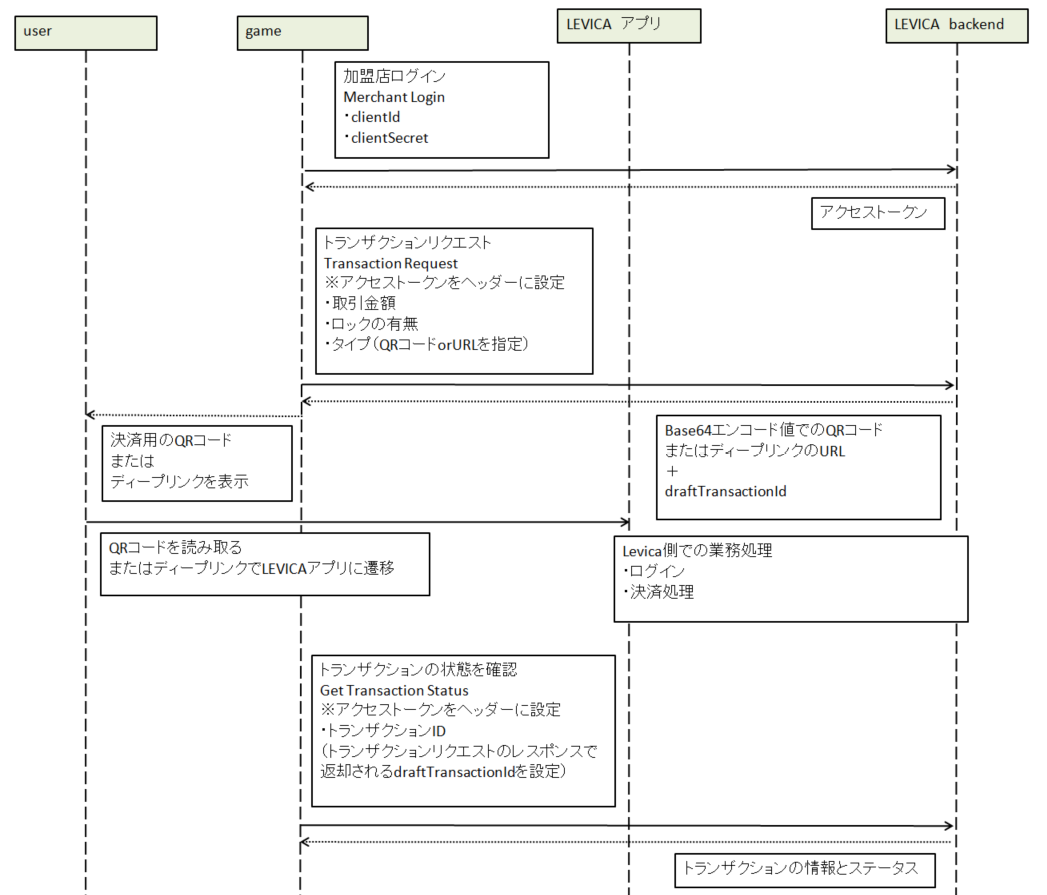
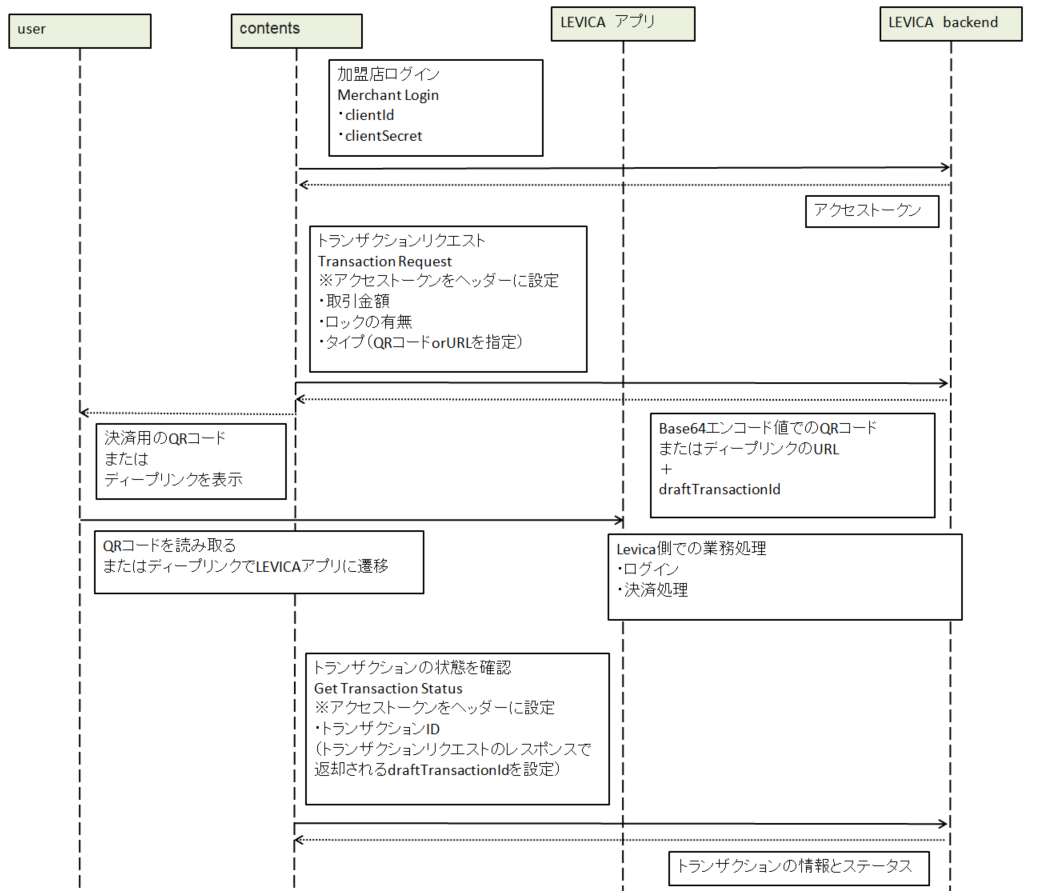
[update]
[update]用語の修正

Changed region(s): [[0.0, 0.0, 0.9818, 1.0]]

diff --git a/source/game-development/wallet-connection.rst b/source/game-development/wallet-connection.rst
@@ -3,18 +3,18 @@
 ###########################
 
 
-ANICANAウォレットサーバを通じて、ゲームシステムからユーザのアドレスの取得およびその保有者であることの検証を行うことができる。
+ANICANAウォレットサーバを通じて、コンテンツからユーザのアドレスの取得およびその保有者であることの検証を行うことができる。
 以下に一例の手順を示す。
 
 
 .. image:: ../img/wallet_connection.png
 
 
-Player: ゲームのユーザ
+Player: コンテンツのユーザ
 
-Frontend: ゲームのフロントエンド
+Frontend: コンテンツのフロントエンド
 
-Backend: ゲームのバックエンド
+Backend: コンテンツのバックエンド
 
 Wallet: ANICANAウォレットサーバ
 
@@ -45,7 +45,7 @@ API仕様
     パラメータ, 説明
     id, anikana_login_script (変更しないで下さい)
     src, {endpoint}//login.js
-    data-call-id, ゲームメーカー毎に一意の数値。ゲーム側で、どの遷移からのユーザーが戻ってきたかなどを判別するための機能となっている。その情報が特に必要なければ9999999で問題ない。
+    data-call-id, パブリッシャー毎に一意の数値。コンテンツ側で、どの遷移からのユーザーが戻ってきたかなどを判別するための機能となっている。その情報が特に必要なければ9999999で問題ない。
     data-sign-text, 署名対象のテキスト(ワンタイムトークン)
     data-callback, コールバックURL. ログイン完了後、callId、 sign、 address (ユーザーのwallet address) がGETパラメータに追加されてリダイレクトされる。
     data-logout, true/false、または無し。trueの場合、強制的に再ログインをさせる。falseの場合、セッション情報があれば自動ログイン、なければ再ログインをさせる。無しの場合、falseと同様。
@@ -60,7 +60,7 @@ API仕様
 
 ウォレット側では、単に与えられた署名対象テキストを、ユーザの秘密鍵で署名して返す。
 このときの署名方式は楕円曲線暗号方式(ECDSA)である。
-この署名データの取り扱いは、利用側(ゲーム側)システムに委ねられる。
+この署名データの取り扱いは、利用側(コンテンツ側)システムに委ねられる。
 
 ログイン後のcallbackに送られてくるaddressの持ち主が本当に当該ユーザであるかを検証するには、この署名データの検証を行う。
 

diff --git a/source/game-development/user-registration.rst b/source/game-development/user-registration.rst
@@ -3,10 +3,10 @@
 ###########################
 
 
-ゲーム側システムでブロックチェーンとの接続を直接行う必要はないが、
+コンテンツ側システムでブロックチェーンとの接続を直接行う必要はないが、
 ユーザが使うウォレット情報を取得するニーズはあると考えられる。
 
-そこで、ANICANAウォレット接続によってアドレスの所有者認証を行い、ゲーム側で保持する
+そこで、ANICANAウォレット接続によってアドレスの所有者認証を行い、コンテンツ側で保持する
 ユーザ情報と、ウォレットアドレス情報を紐付ける方法を提供する。
 
 ---------------------------------
@@ -17,9 +17,9 @@
 
 以下のようなユーザ登録フローが想定されている。
 
-1. ユーザがゲームにアカウント登録を行う
+1. ユーザがコンテンツにアカウント登録を行う
 2. アカウント登録の際、ウォレット接続を行い、ユーザのウォレットアドレスを取得する。ユーザがウォレットを未作成の場合でも、初回接続時に自動生成される。
-3. ゲームアカウントとユーザアドレスを紐付けてゲーム側で情報を保持する 
-4. ウォレット接続によりアドレス保有者の認証ができるため、パスワード認証などの代わりにこのアドレス認証によってゲームにログインさせることも可能。こうすることで他のゲームと共通のSSOが可能になる。
+3. コンテンツアカウントとユーザアドレスを紐付けてコンテンツ側で情報を保持する 
+4. ウォレット接続によりアドレス保有者の認証ができるため、パスワード認証などの代わりにこのアドレス認証によってコンテンツにログインさせることも可能。こうすることで他のコンテンツと共通のSSOが可能になる。
 
 

diff --git a/source/game-development/generate-arcana.rst b/source/game-development/generate-arcana.rst
@@ -4,7 +4,7 @@ ARCANA生成API
 
 
 
-次のスクリプトタグをゲームシステム側に埋め込むことで、ARCANA生成画面を呼び出すことができます。
+次のスクリプトタグをコンテンツ側に埋め込むことで、ARCANA生成画面を呼び出すことができます。
 
 
 API仕様
@@ -43,7 +43,7 @@ ARCANA生成ページ呼び出しスクリプト
     data-seed, seed
     data-signature, game maker側による署名
     callback-url (URL), "callbackのURL。requestIdとtxHashがGETパラメータとして追加されてredirectされる。http://test.comを指定した場合、http://test.com?requestId=1&txHash=xxxxxのようになる。また、callbackは指定しなくても良い。その場合はportal上のウォレットページに遷移するボタンが表示される。"
-    data-requestid (数値) uint, ゲームメーカー毎の任意の数値。 0 ~ 18446744073709551615
+    data-requestid (数値) uint, パブリッシャー毎の任意の数値。 0 ~ 18446744073709551615
     data-toaddr, 配布先wallet address
     data-logout, true/false、または無し。trueの場合、強制的に再ログインをさせる。falseの場合、セッション情報があれば自動ログイン、なければ再ログインをさせる。無しの場合、falseと同様。
 

diff --git a/source/game-development/call-arcana-generator.rst b/source/game-development/call-arcana-generator.rst
@@ -11,8 +11,8 @@ ARCANA生成は、通常はIPFSとANICANA Chainスマートコントラクトと
 * ユーザによるトランザクション署名
 * ARCANA生成トランザクションの実行
 
-これらの処理をゲーム側が独自に実装するのは煩雑なため、ANICANAポータルがこの処理をサポートするAPIを提供しています。
-ゲーム側は、フロントエンドにスクリプトタグを埋め込み、必要なパラメータを付与するだけで、ユーザをARCANA生成ページに遷移させ、
+これらの処理をコンテンツ側が独自に実装するのは煩雑なため、ANICANAポータルがこの処理をサポートするAPIを提供しています。
+コンテンツ側は、フロントエンドにスクリプトタグを埋め込み、必要なパラメータを付与するだけで、ユーザをARCANA生成ページに遷移させ、
 ARCANA生成を行わせることができます。
 
 

diff --git a/source/game-development/levica.rst b/source/game-development/levica.rst
@@ -297,7 +297,7 @@ LEVICA決済を導入するために使用する主なAPIを掲載。
 |                       |  | }                                                                                                 |
 +-----------------------+------------------------------------------------------------------------------------------------------+
 
-※statusは2以上であれば、決済完了と判断してよい。4,5が返却されてもブロックチェーンレベルの内容のため、ゲーム側では問題なしと判断してよい。
+※statusは2以上であれば、決済完了と判断してよい。4,5が返却されてもブロックチェーンレベルの内容のため、コンテンツ側では問題なしと判断してよい。
 
 ----------------------------------------------------------------------------------------------------------------------------------------------------------------------
 

diff --git a/source/overview/knights-of-the-round-table.rst b/source/overview/knights-of-the-round-table.rst
@@ -32,5 +32,5 @@ Knights of the Round Table には
 #. Queenの任期は2年（始期と終期を記入）。
 #. Queenの任期が満了すると、次のQueenは12名のKnightの投票によって選出される。
 #. ValidatorのみKnightになれる権利を持つ。 
-#. Knightは、自身に割り当てられているNoが承認したValidator（ゲームオーナー達）がシステムに対して支払ったGas（ANM）から、自動的に一定割合のANMを受け取れる。
+#. Knightは、自身に割り当てられているNoが承認したValidator（パブリッシャー達）がシステムに対して支払ったGas（ANM）から、自動的に一定割合のANMを受け取れる。
 

diff --git a/source/egg-management/ValidatorUI.rst b/source/egg-management/ValidatorUI.rst
@@ -8,7 +8,7 @@ Validator管理画面
 | ノードへの参加申請や、EGGの生成などが行える。
 | また、Queen、Knightの各種操作も管理画面から行う。
 | 
-| ゲーム開発をする際に事前準備として必要な手順は以下の通り。
+| コンテンツ開発をする際に事前準備として必要な手順は以下の通り。
 | Validator管理画面は主にEGGの生成を行う際に使用する画面となる。
 
 .. csv-table::

diff --git a/source/overview/how-to-join.rst b/source/overview/how-to-join.rst
@@ -5,7 +5,7 @@ ANICANAへの参加の仕方
 ANICANAに参加するためには、大きく分けて以下の3つの工程が必要となる。
 
 1. Validator初期セットアップ
-2. ゲームの開発
+2. コンテンツの開発
 3. システムの運用
 
 本ドキュメントの各章でそれぞれの手順を説明する。

diff --git a/source/index.rst b/source/index.rst
@@ -33,7 +33,7 @@ ANICANA Technical Documents
 
 .. toctree::
    :maxdepth: 2
-   :caption: ゲームの開発:
+   :caption: コンテンツの開発:
 
    /game-development/overview
    /game-development/test-environment
